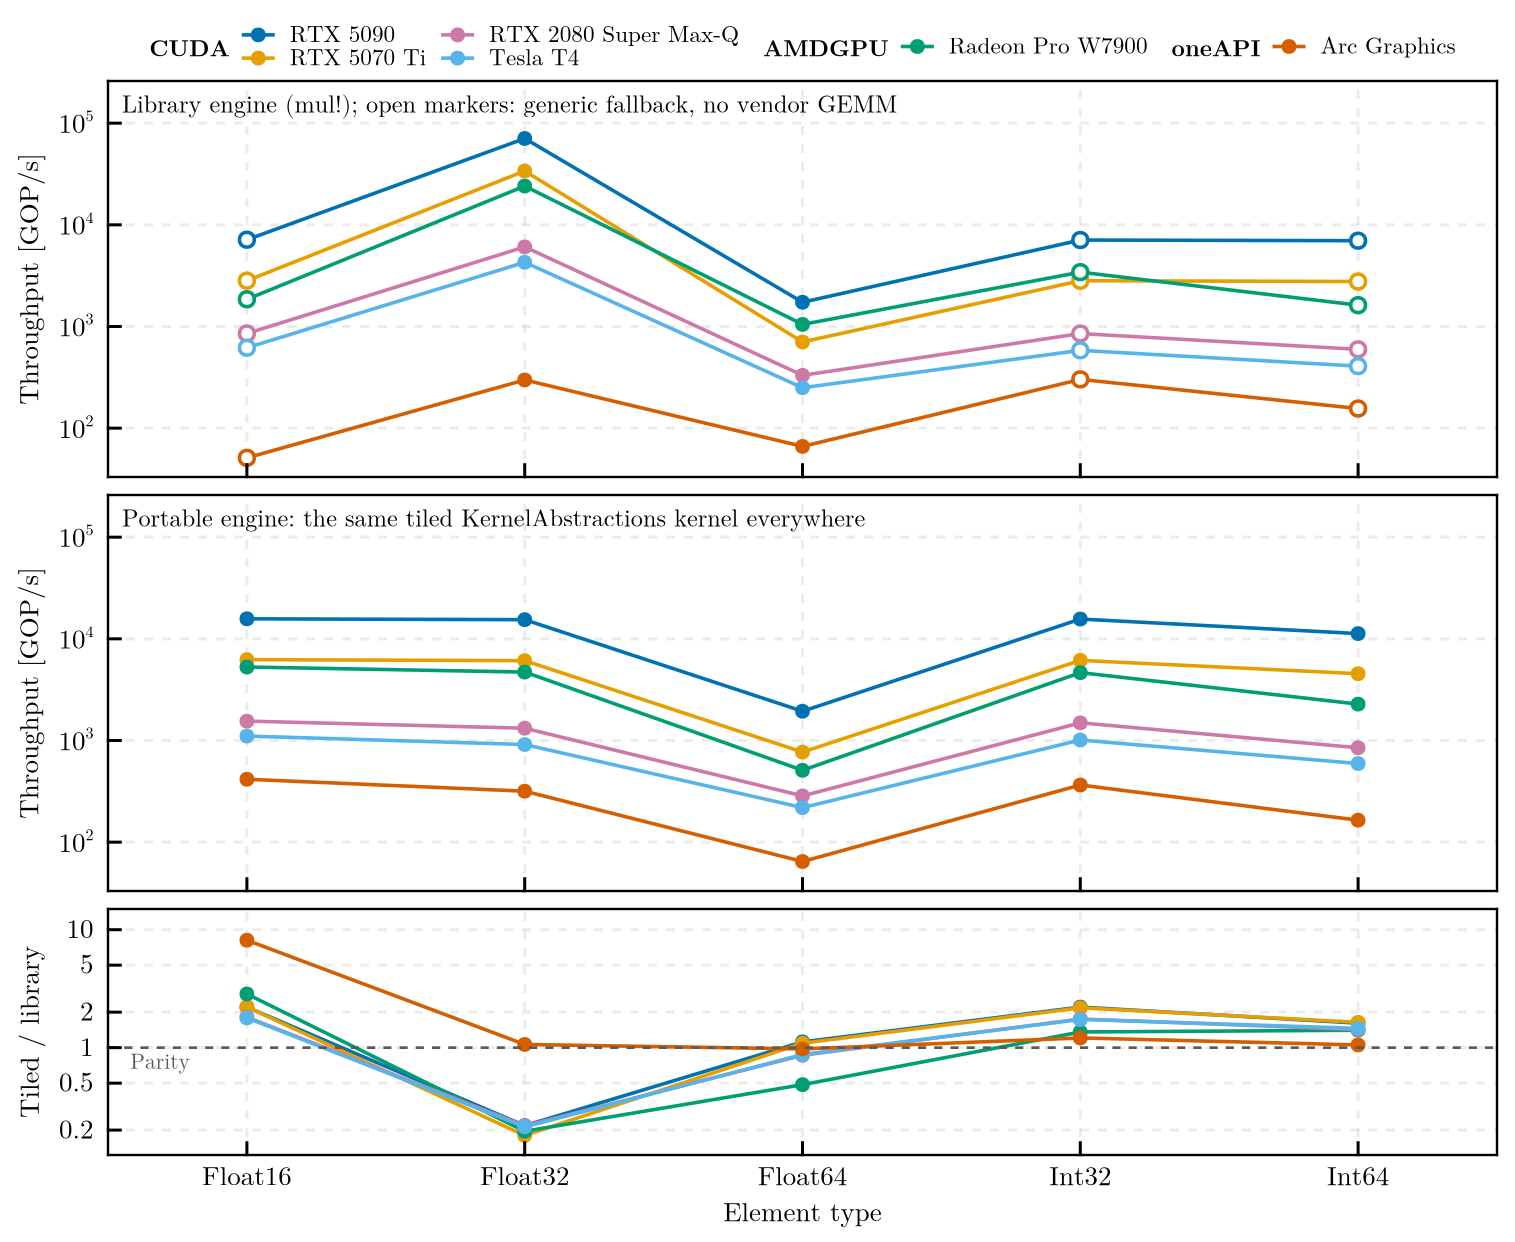
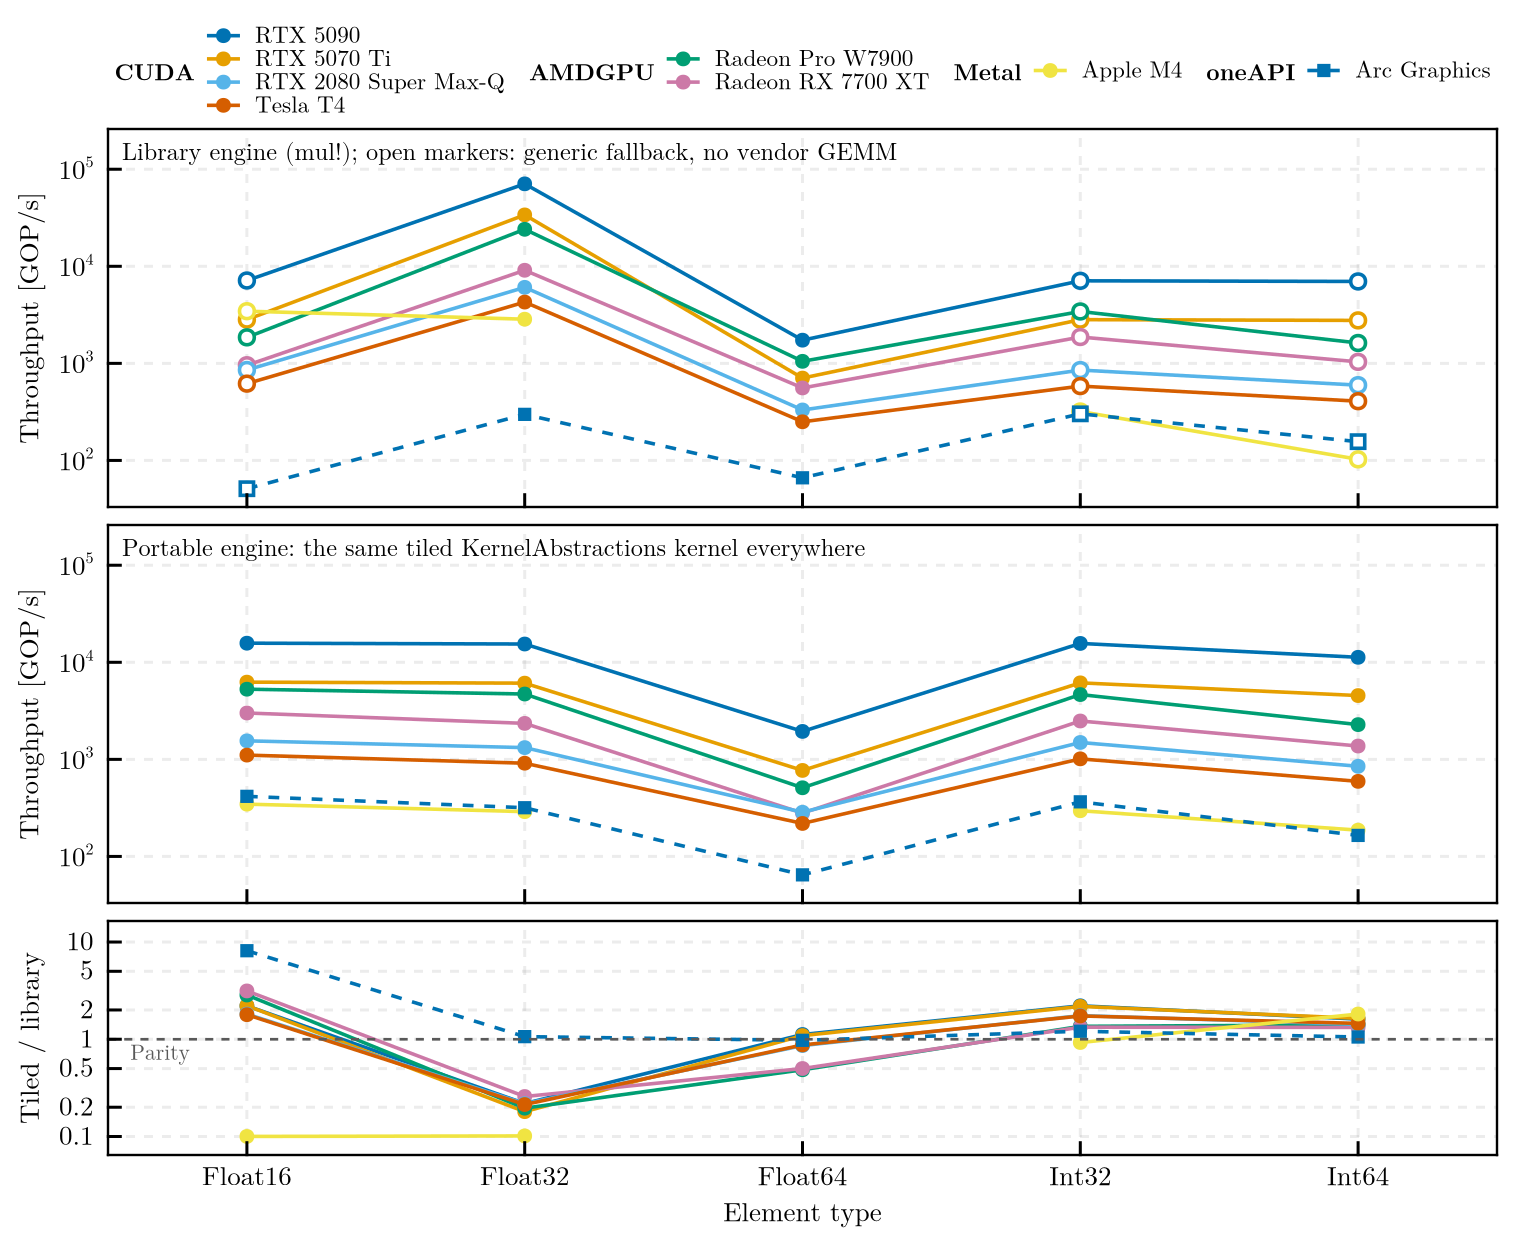
docs: redraw the README figures over eight accelerators
Both cross-host figures are re-exported from the eight datasets: eight
accelerators of four vendors and seven host processors, x86_64 and arm64.

The captions follow the data rather than the previous six-device set. The
library keeps a lead of 3.9 to 5.6x at Float32 on the six discrete cards, and
the two integrated GPUs bracket that range from opposite sides, MPS 9.9x ahead
of the portable kernel on the M4 and oneMKL 6 % behind it on the Arc. Float64
is now a seven-device statement and names the gap Metal leaves. The claim that
the portable kernel leads wherever mul! falls back is qualified: it holds on the
seven devices whose fallback is genuinely generic, while the M4 routes Float16
to an Apple GEMM and loses to the GPUArrays path at Int32.

The status tables record that every backend has run on hardware, which closes
the Metal extension as the last unexecuted code, and that the AMDGPU extension
has now seen two devices.

diff --git a/README.md b/README.md
@@ -13,27 +13,34 @@ Scientific scripting workbench in Julia. It hosts standalone utilities and self-
 tools that do not warrant a package of their own, behind one dispatcher, one test runner
 and one formatting gate.
 
-![Dual-GEMM throughput per element type on six accelerators, by engine, with the ratio of the portable kernel to the library](assets/cross_host_accelerators_N4096.png)
+![Dual-GEMM throughput per element type on eight accelerators, by engine, with the ratio of the portable kernel to the library](assets/cross_host_accelerators_N4096.png)
 
-Output of `hardware-diagnostics` drawn by `plot-benchmarks`, pooled over the six runs in
+Output of `hardware-diagnostics` drawn by `plot-benchmarks`, pooled over the eight runs in
 [`reference-runs/`](reference-runs/): the same operation, D = A·B + A·C at N = 4096, on
-six accelerators of three vendors, through the library path of each device and through
-one tiled KernelAbstractions kernel compiled for all of them from the same source. Where
-a tuned vendor GEMM exists the library keeps its lead — 4.6 to 5.5× at `Float32` on the
-five discrete cards, parity on the Intel integrated GPU. At `Float64`, whose rate the
-hardware caps, the portable kernel comes within 15 % of the library on five of the six
-devices and passes it on both consumer NVIDIA cards; only rocBLAS on the W7900 keeps a
-factor two. Where `mul!` has no vendor GEMM and falls back to the generic
-GPUArrays path, which is every integer type and `Float16`, the portable kernel leads by
-1.05 to 8.1×.
+eight accelerators of four vendors, through the library path of each device and through
+one tiled KernelAbstractions kernel compiled for all of them from the same source. Where a
+tuned vendor GEMM exists the library keeps its lead — 3.9 to 5.6× at `Float32` on the six
+discrete cards. The two integrated GPUs bracket that range from both sides: Apple's MPS is
+9.9× ahead of the portable kernel, while on the Intel Arc oneMKL is 6 % *behind* it. At
+`Float64` the portable kernel comes within 15 % of the library on five of the seven
+devices that have it and passes it on both consumer NVIDIA cards, whose rate is fused off
+at 1/64; rocBLAS keeps a factor two on both AMD cards, and Metal carries no double
+precision at all, which is the gap in the M4 line. Where `mul!` has no vendor GEMM and
+falls back to the generic GPUArrays path, the portable kernel leads by 1.06 to 8.1× on the
+seven devices whose fallback is genuinely generic. The M4 departs from that on both
+counts: its `Float16` point is no fallback at all — Metal routes half precision to an
+Apple GEMM, and the marker is open only because the dataset predates the label fix — while
+at `Int32` the GPUArrays path is the faster of the two.
 
-![Speedup and parallel efficiency of five host processors against the BLAS thread count](assets/cross_host_hosts_N4096.png)
+![Speedup and parallel efficiency of seven host processors against the BLAS thread count](assets/cross_host_hosts_N4096.png)
 
-The host side of the same six runs: five processors from six to 32 physical cores. Each
-series ends at the physical core count of its host, and the shape of its tail is the
-topology — the EPYC regresses past 16 threads across its four dies, while both hybrid
-Intel parts lose efficiency as soon as the sweep spreads past their performance cores
-(30 % at 16 threads for the i9-13900KS, 17 % at 16 for the Core Ultra 7 155H).
+The host side of the same eight runs: seven processors from six to 32 physical cores,
+x86_64 and arm64. Each series ends at the physical core count of its host, and the shape
+of its tail is the topology — the EPYC regresses past 16 threads across its four dies,
+while both hybrid Intel parts lose efficiency as soon as the sweep spreads past their
+performance cores (30 % at 16 threads for the i9-13900KS, 17 % at 16 for the Core Ultra 7
+155H). The M4 shows the same knee at its four performance cores, flattening to 45 % at 10
+threads as the sweep reaches the efficiency ones.
 
 ```bash
 julia run.jl hardware-diagnostics --stress                   # one machine
@@ -53,7 +60,7 @@ scicomp-toolbox/
 ├── README.md
 ├── check.jl                       # pre-commit: format with formatter/, then test.jl
 ├── assets/                        # figures used by this README
-├── reference-runs/                # datasets of the six validation runs, one per accelerator
+├── reference-runs/                # datasets of the eight validation runs, one per accelerator
 │   └── README.md                  # hardware, configuration and outcome of each run
 ├── run.jl                         # dispatcher: list, run and scaffold tools
 ├── test.jl                        # global test runner
@@ -97,7 +104,9 @@ instantiation.
 
 Julia 1.12 or later through [juliaup](https://github.com/JuliaLang/juliaup); the declared
 floor of every environment is `julia = "1.12"` and the committed manifests are resolved
-with the current stable release (1.13). Linux is the primary platform. GPU packages
+with the current stable release (1.13). Linux is the primary platform and the one CI
+covers; `hardware-diagnostics` has also been run on macOS/arm64, which is where the Metal
+backend was exercised. GPU packages
 (`CUDA`, `AMDGPU`, `Metal`, `oneAPI`) are not dependencies of any tool: install the one
 matching the hardware into the default environment and the tool resolves it through the
 load path (see `hardware-diagnostics/README.md`).
@@ -144,12 +153,12 @@ julia -i -e 'include("hardware-diagnostics/activate.jl")'
 | :--- | :--- |
 | Dispatcher, test runner, formatting gate | in use; exercised by CI on Julia 1 (current stable), Ubuntu |
 | `sysinfo` | in use |
-| `hardware-diagnostics`, CPU path | tested (unit tests, static QA with Aqua, JET and ExplicitImports, end-to-end run); five host processors in [`reference-runs/`](reference-runs/) |
+| `hardware-diagnostics`, CPU path | tested (unit tests, static QA with Aqua, JET and ExplicitImports, end-to-end run); seven host processors in [`reference-runs/`](reference-runs/), x86_64 and arm64 |
 | `hardware-diagnostics`, CUDA extension | run on four devices (RTX 5090, RTX 5070 Ti, RTX 2080 Super Max-Q, Tesla T4), all three engines, verification passed |
-| `hardware-diagnostics`, AMDGPU extension | run on a Radeon Pro W7900, all three engines, verification passed |
+| `hardware-diagnostics`, AMDGPU extension | run on two devices (Radeon Pro W7900, Radeon RX 7700 XT), all three engines, verification passed |
 | `hardware-diagnostics`, oneAPI extension | run on an Intel Arc integrated GPU (Meteor Lake), all three engines, verification passed |
-| `hardware-diagnostics`, Metal extension | names checked against the Metal.jl 1.11 sources, not run on hardware |
-| `plot-benchmarks` | tested on synthetic datasets; figures inspected on the six reference runs |
+| `hardware-diagnostics`, Metal extension | run on an Apple M4, all three engines, verification passed for the four element types Metal carries; `Float64` is refused per point |
+| `plot-benchmarks` | tested on synthetic datasets; figures inspected on the eight reference runs |
 
 ## Conventions
 

diff --git a/CHANGELOG.md b/CHANGELOG.md
@@ -8,10 +8,13 @@ a change belongs to it.
 
 ### Added
 
-- `reference-runs/`: the datasets of six `--stress` runs on six accelerators of three
+- `reference-runs/`: the datasets of eight `--stress` runs on eight accelerators of four
   vendors, one directory per device, with a README recording the hardware, the shared
   configuration and the outcome of each run. They are the provenance of the README
-  figures and the evidence behind the backend status table.
+  figures and the evidence behind the backend status table. The Apple M4 is the first
+  arm64 host of the set and the only run produced off Linux.
+- `Backends.vendor_blas_types(backend)`: the element types whose `mul!` reaches the vendor
+  library, asked of the backend instead of read from one fixed set.
 - `plot-benchmarks --compare [DIR]`: two cross-host figures from every dataset under a
   directory. The accelerator figure stacks the throughput of the library engine, the
   throughput of the tiled KernelAbstractions kernel and their ratio on one element-type
@@ -23,10 +26,11 @@ a change belongs to it.
 
 ### Changed
 
-- The CUDA, AMDGPU and oneAPI extensions of `HardwareDiagnostics` have now run on
-  hardware: four NVIDIA devices, one AMD device and one Intel integrated GPU, all three
-  engines each, cross-engine verification passed (120 comparisons). Only the Metal
-  extension remains unexecuted.
+- Every GPU extension of `HardwareDiagnostics` has now run on hardware: four NVIDIA
+  devices, two AMD devices, one Intel integrated GPU and one Apple M4, all three engines
+  each. The cross-engine verification passed 158 comparisons with none failed; `Float64`
+  is absent on Metal, so the M4 contributes 18 of them rather than 20. No unexecuted
+  backend code remains.
 - The README figures are the two cross-host figures; the single-host throughput figure
   they replace is no longer shipped, the per-dataset figures being the tool's default
   output.
@@ -37,6 +41,17 @@ a change belongs to it.
 
 ### Fixed
 
+- `HardwareDiagnostics` 0.3.2: the library label of a benchmark point assumed that every
+  backend serves the BLAS element types and only those, which mislabels Metal twice over —
+  it dispatches `Float16` to an Apple GEMM and supports no `Float64` at all. Vendor
+  coverage is now a method on the backend, which the Metal extension overrides. The
+  `apple-m4` dataset predates the fix and still reads `GPUArrays generic` on its `Float16`
+  rows.
+- `plot-benchmarks`: an element type a device could not measure was joined by a straight
+  segment drawn across it, which reads as a measured point at the gap; lines now break
+  there. Beyond the seven hues of the palette an eighth device repeated the first one's
+  colour, so the marker and the line style vary once the palette wraps, and the grouped
+  legend takes one column per backend instead of overflowing the figure width.
 - `plot-benchmarks`: the ideal reference S = t of the thread-scaling figure was drawn as
   a two-point segment on a logarithmic thread axis, on which it is a chord and not the
   reference; it is now sampled along the axis.

diff --git a/hardware-diagnostics/README.md b/hardware-diagnostics/README.md
@@ -111,14 +111,21 @@ sidecar records the package's `versioninfo` output for that reason.
 | Backend | Package | Status |
 | :--- | :--- | :--- |
 | NVIDIA CUDA | `CUDA` | run on an RTX 5090, an RTX 5070 Ti, an RTX 2080 Super Max-Q and a Tesla T4 |
-| AMD ROCm (HIP) | `AMDGPU` | run on a Radeon Pro W7900 |
+| AMD ROCm (HIP) | `AMDGPU` | run on a Radeon Pro W7900 and a Radeon RX 7700 XT |
 | Intel oneAPI (Level Zero) | `oneAPI` | run on an Intel Arc integrated GPU (Core Ultra 7 155H) |
-| Apple Metal | `Metal` | names checked against the Metal.jl 1.11 sources, not run on hardware |
+| Apple Metal | `Metal` | run on an Apple M4; `Float64` is unsupported by the API |
 
-The three exercised backends ran `--stress` with all three engines and the five element
-types, and the cross-engine verification passed on every device. The datasets are in
-`reference-runs/`, whose README records the hardware, the configuration and the outcome
+Every backend has now run `--stress` with all three engines, and the cross-engine
+verification passed on every device: 158 comparisons, none failed. All five element types
+were covered except on Metal, which carries no double precision — a `Float64` point there
+fails with the framework's own message and the remaining stages continue. The datasets are
+in `reference-runs/`, whose README records the hardware, the configuration and the outcome
 of each run.
+
+Which element types reach the vendor library is a property of the backend rather than of
+the type, so `Backends.vendor_blas_types` is a method the extensions override: Metal
+dispatches `Float16` to an Apple GEMM and has no `Float64` at all, while the BLAS-class
+backends follow `Float32`, `Float64`, `ComplexF32`, `ComplexF64`.
 
 ## Usage
 
